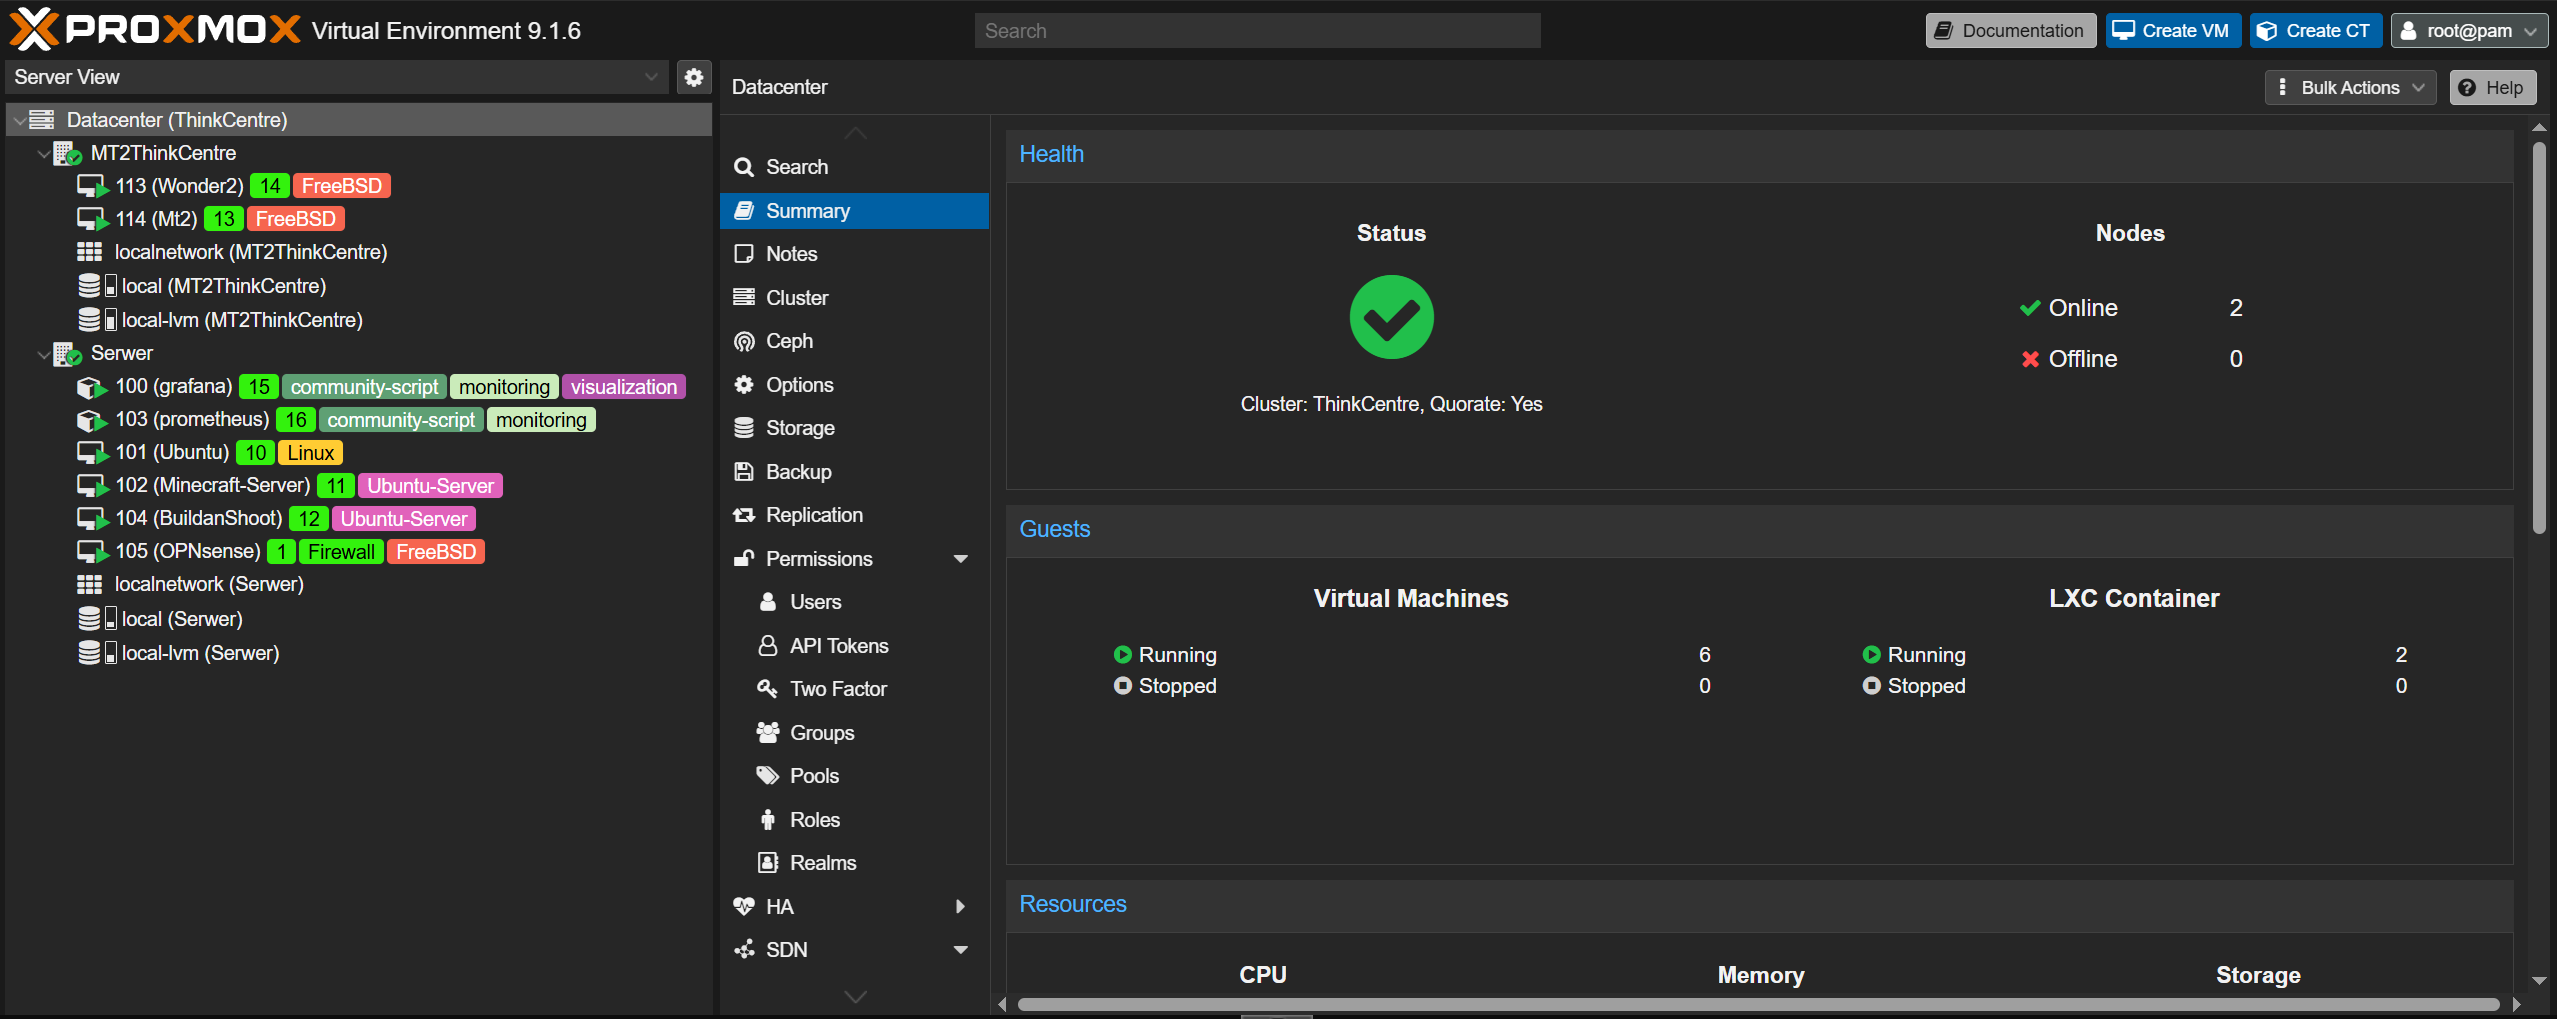
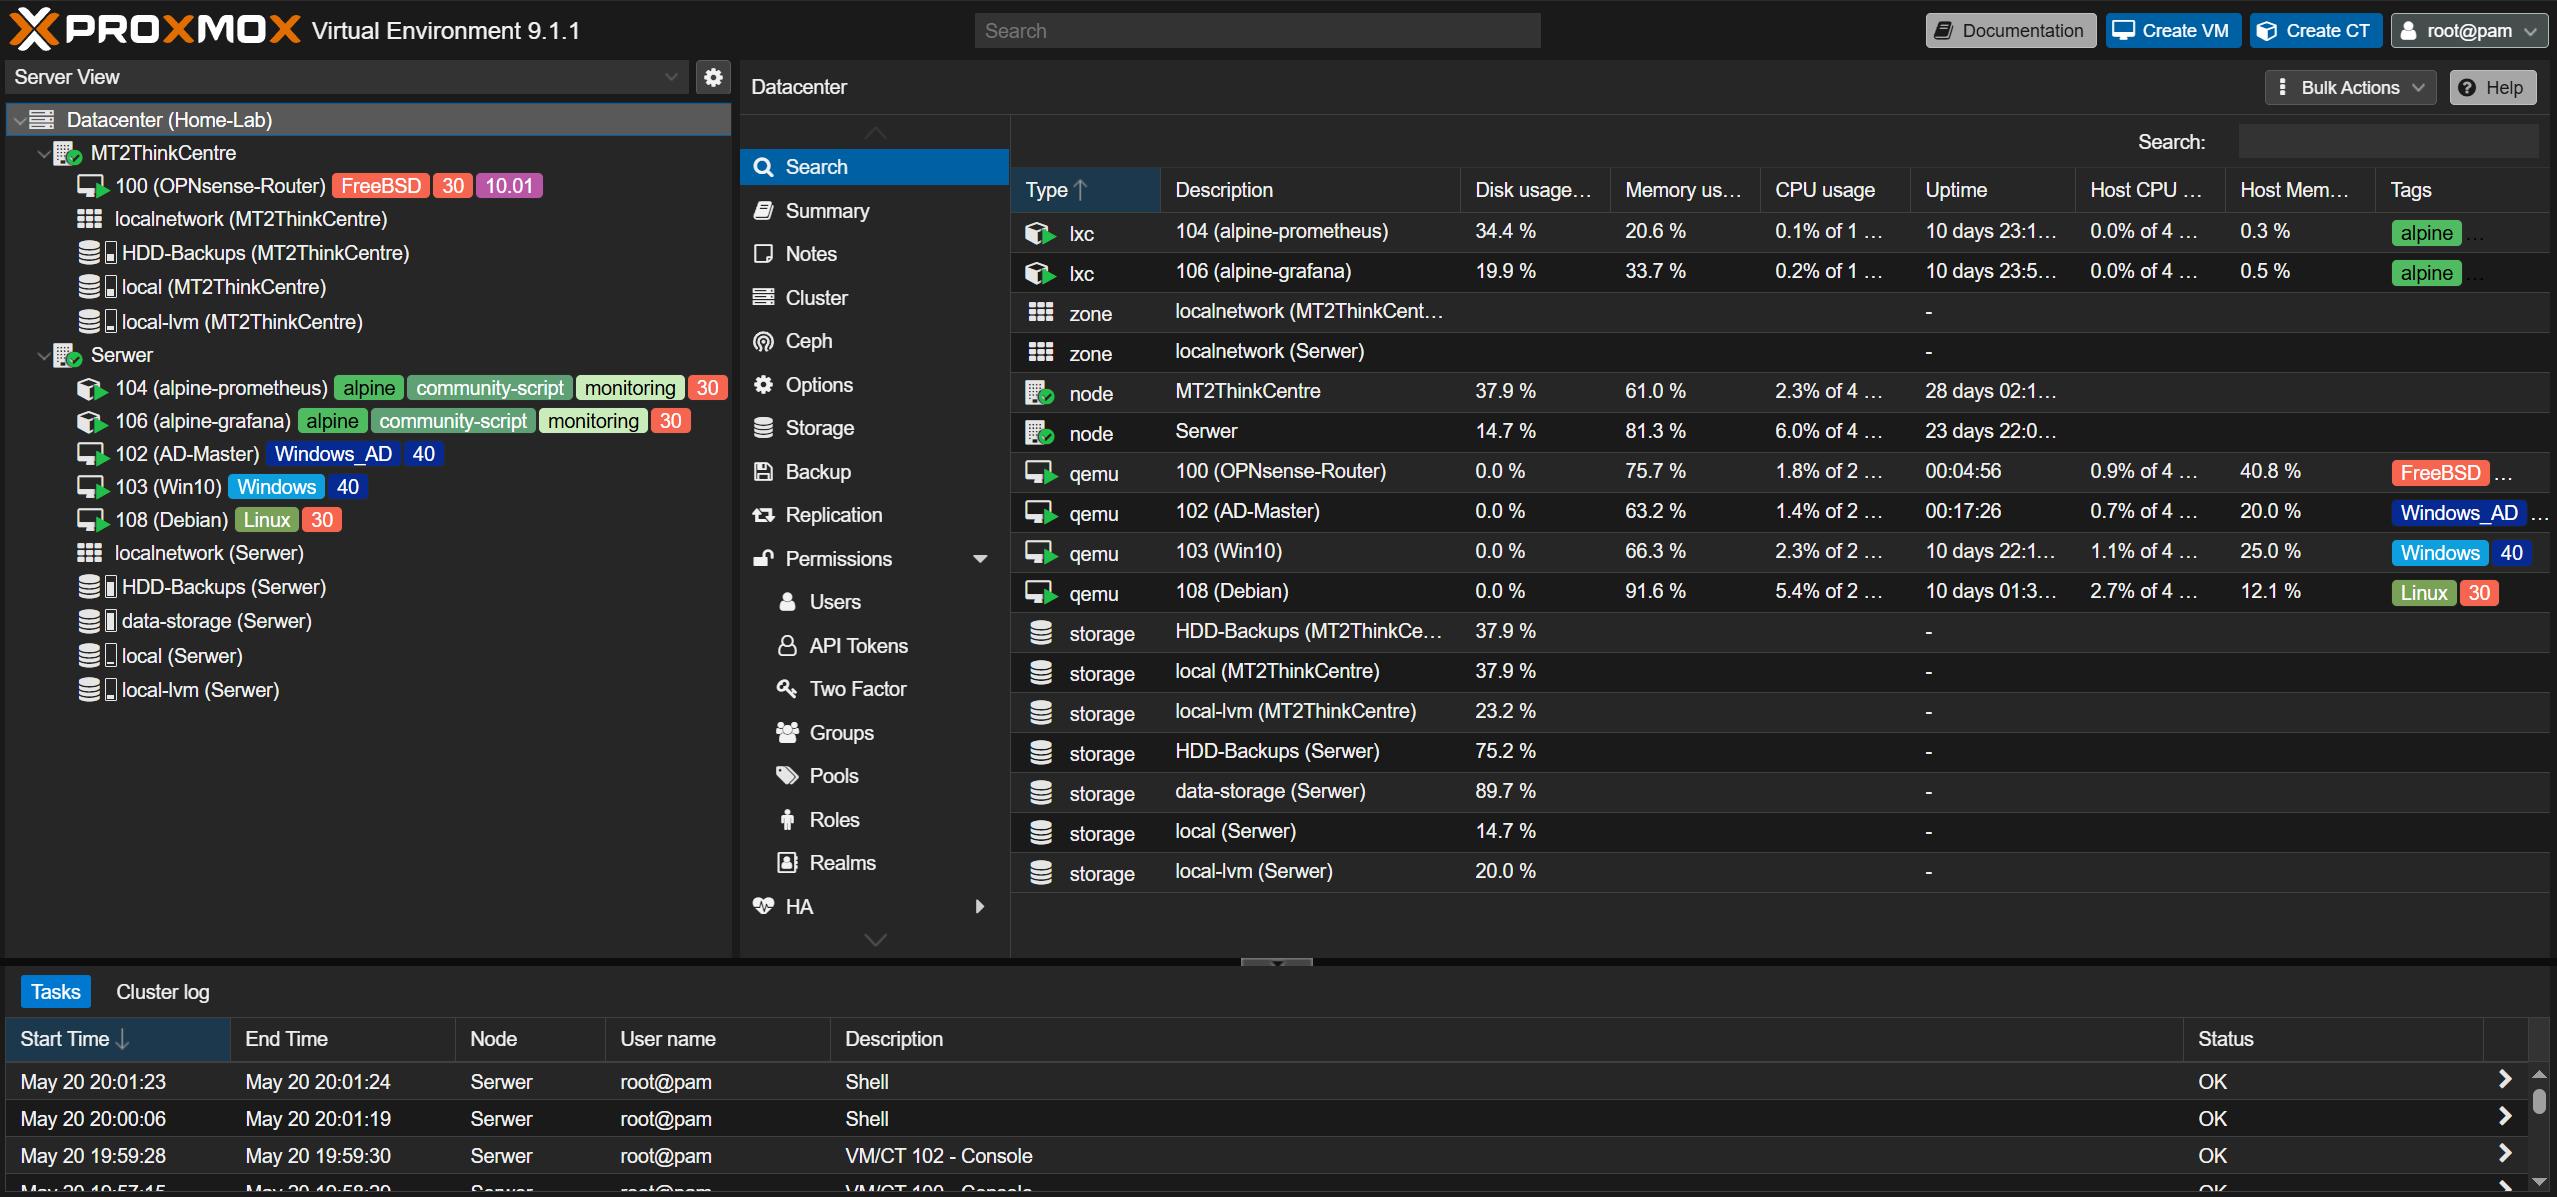
Major HomeLab update - describing of my new vm's and lxc's

diff --git a/README.md b/README.md
@@ -1,4 +1,4 @@
-# 🏠 Home Lab
+# 🏠 Home-Lab
 
 Welcome to my home lab repository. This project documents my hardware infrastructure, configuration files, and performance benchmarks.
 
@@ -7,34 +7,41 @@ Welcome to my home lab repository. This project documents my hardware infrastruc
 | Device | Model | CPU | RAM | Storage |
 | :--- | :--- | :--- | :--- | :--- |
 | **Node 1** | Lenovo ThinkCentre M73 | Intel Core i3-4130T (2 Cores @ 2.9GHz) | 8GB DDR3| 120GB SSD |
-| **Node 2** | Dell OptiPlex 5050 | Intel Core i5-6500 (4 Cores @ 3.2GHz) | 16GB DDR4 | 256GB SSD |
+| **Node 2** | Dell OptiPlex 5050 | Intel Core i5-6500 (4 Cores @ 3.2GHz) | 16GB DDR4 | 256GB SSD | 2tb HDD |
 | **Network** | TL-SG108E | managed switch | - | - |
 
 ## ⚙️ Software & Configuration
 
-### Node 1: Lenovo ThinkCentre M73
+### Node 1:  ThinkCentre M73
 | ID | Name | Type | OS | Description |
 | :--- | :--- | :--- | :--- | :--- |
-| **113** | Wonder2 | VM | FreeBSD | Game Server |
-| **114** | Mt2 | VM | FreeBSD | Game Server |
+| **100** | OPNsense-Router | VM | FreeBSD | Firewall |
 
-### Node 2: Dell OptiPlex 5050
+### Node 2: Serwer
 | ID | Service/Name | Type | OS | Note |
 | :--- | :--- | :--- | :--- | :--- |
-| **100** | Grafana | LXC | Host | Monitoring Visualization (Community Script) |
-| **103** | Prometheus | LXC | Host | Monitoring Database (Community Script) |
-| **101** | Ubuntu | VM | Ubuntu | Base VM |
-| **102** | Minecraft Server | VM | Ubuntu Server | Game Server |
-| **104** | BuildAndShoot | VM | Ubuntu Server | Game Server |
-| **105** | OPNsense | VM | FreeBSD | Firewall |
+| **104** | alpine-prometheus | LXC | Host | Monitoring Database (Community Script) |
+| **106** | alpine-grafana | LXC | Host | Monitoring Visualization (Community Script) |
+| **102** | AD-Master | VM | Windows Server 2022 | Windows Active Directory |
+| **103** | Win10 | VM | Windows 10 | guest system |
+| **108** | Debian | VM | Linux(Debian) | Torrents |
 
 
 ![HomeLab Configuration](proxmox_screenshot.png)
 
-UPDATE 14.03.2026
+UPDATE 14.03.2026r
  -I made major improvement in my homelab security and in infrastructure. Added OPNsense as Vm in my node 2
 
 
- UPDATE 15.03.2026
+ UPDATE 15.03.2026r
  -Configured Unbound DNS on OPNsense to act as a network-wide ad, tracker, and malware blocker.
  -Installed and configured the CrowdSec plugin on OPNsense. It automatically fetches global threat intelligence lists, instantly blocking known attackers and malicious IP addresses from around the world directly at the firewall level.
+
+ UPDATE 20.05.2026r
+ -Environment Reinstallation: Clean installation of the hypervisor (Proxmox VE) on both cluster nodes (Lenovo ThinkCentre M73 and Dell Optiplex 5050).
+
+ -Network Services Isolation: Migration of the core virtual machine (OPNsense router) to the dedicated Lenovo M73 node. Separating the base network from resource-intensive VMs protects routing from downtime during the second node's restarts and improves hardware resource allocation.
+
+ -Active Directory Lab: Deployment of a test environment featuring Windows Server 2022 and Windows 10 for learning Active Directory (new machines assigned to VLAN 40 by default).
+
+ -Monitoring Optimization: Rebuild of the node monitoring containers. Migration of LXC containers to lightweight Alpine Linux base images, which significantly reduced resource consumption compared to default distributions.